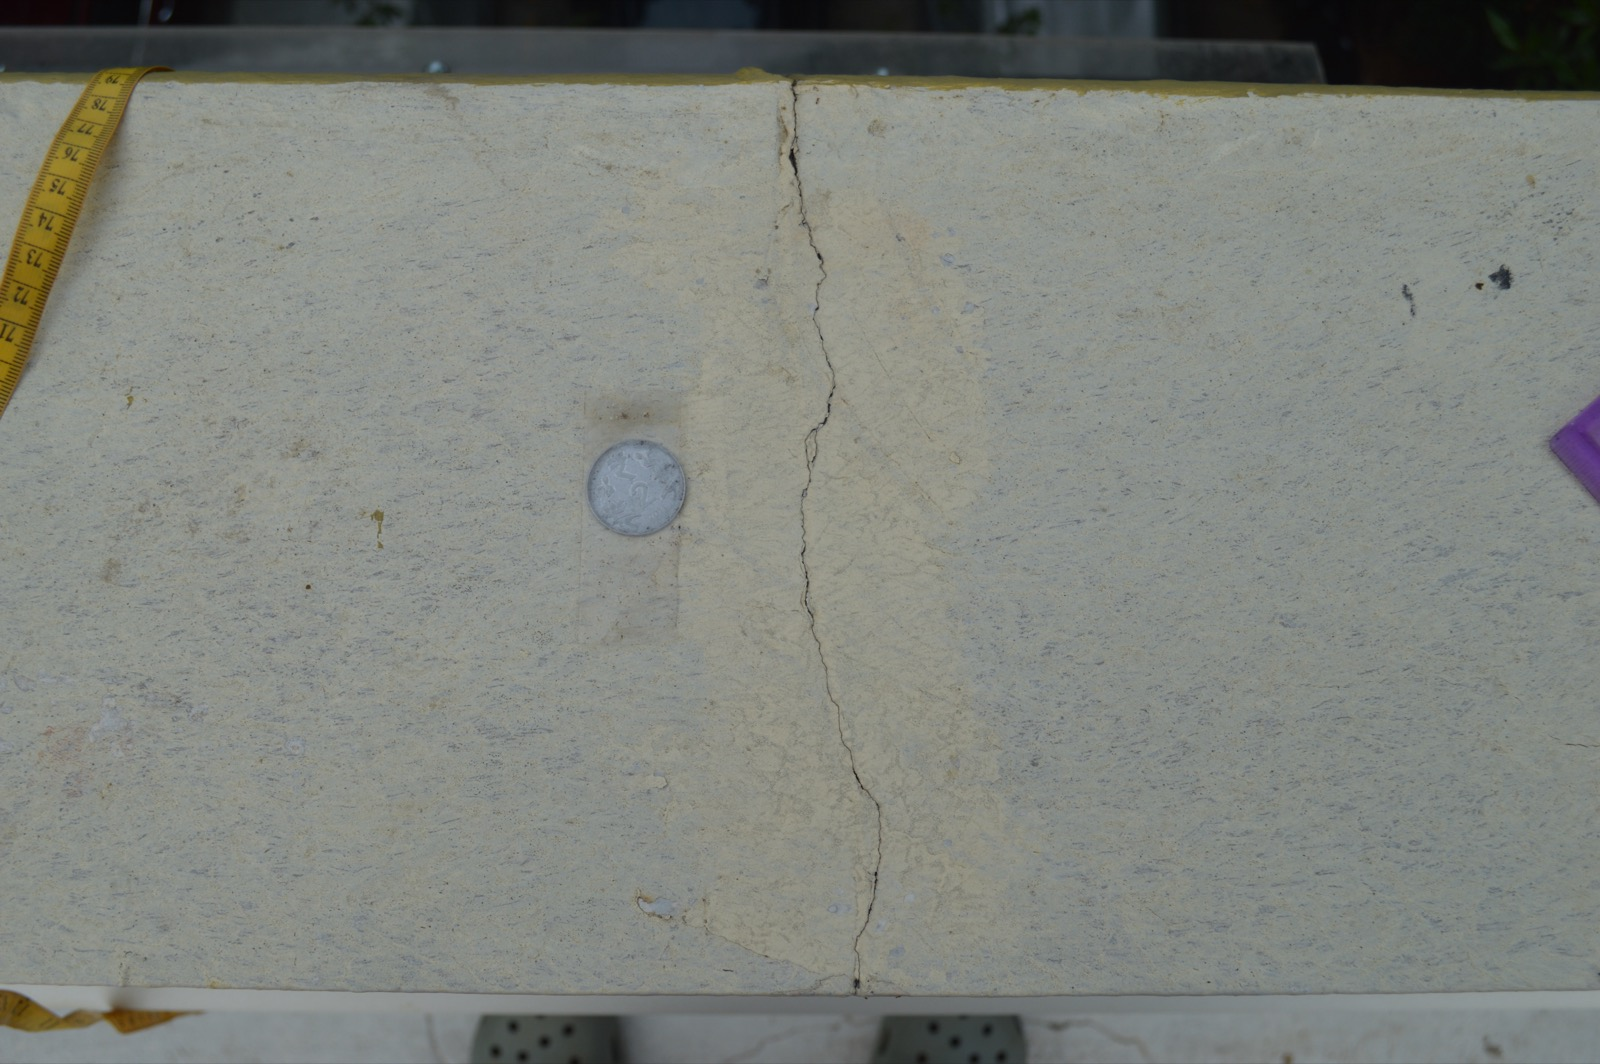
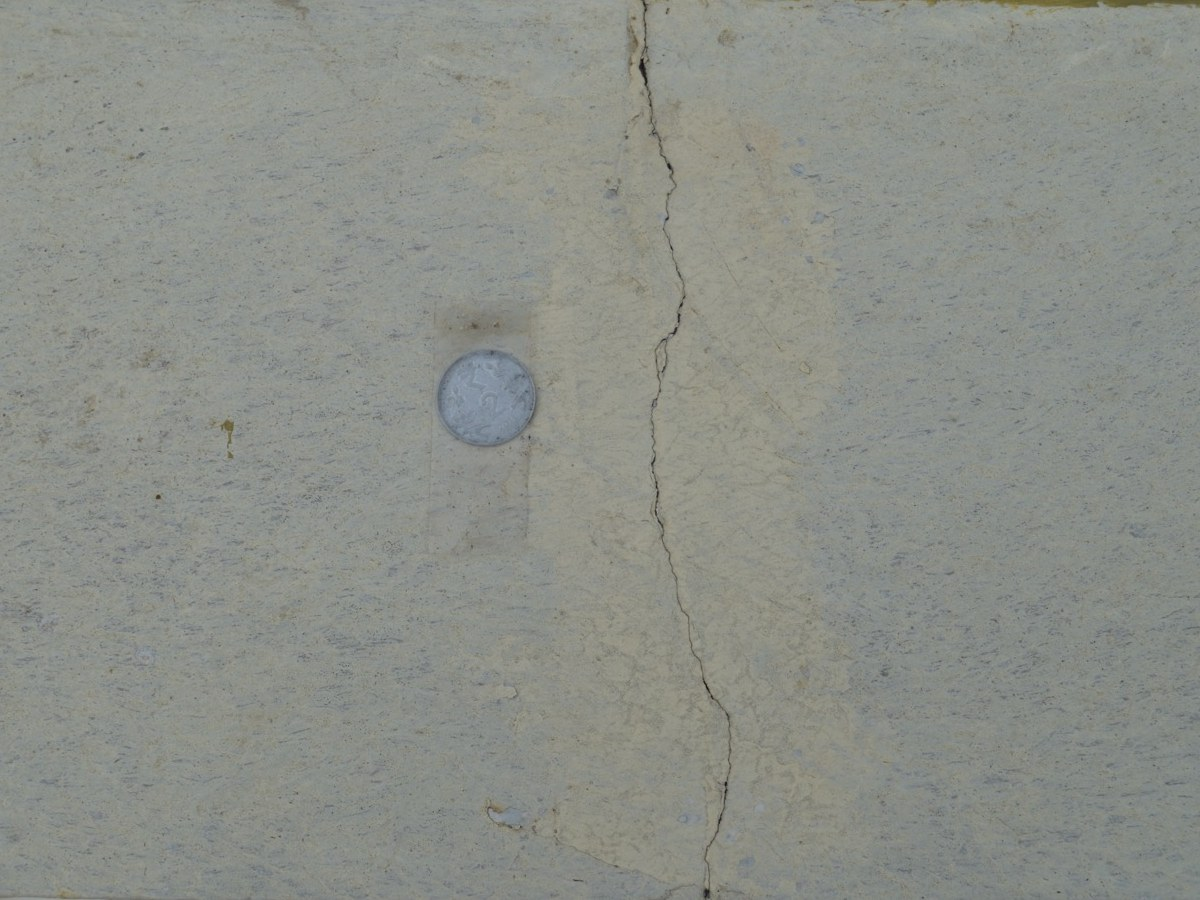
Landing: crop case-study photos; editorial case-study layout
Crop both terrace photos to 1200x900 4:3 on the crack + coin + tape,
cutting the background clutter, hands and feet. Reformat the section:
photos side-by-side with captions, then a two-column body (quote +
measurements + measured-vs-guessed | method + checks + outcome),
full-report PDF viewer full-width below.

diff --git a/react/public/styles.css b/react/public/styles.css
@@ -180,8 +180,9 @@ ul, ol { margin: 0; padding: 0; list-style: none; }
 .case-study { padding-block: 24px 112px; }
 .case-study .status { margin-bottom: 20px; }
 .case-study .sub { margin-top: 16px; max-width: 62ch; }
-.cs-grid { display: grid; grid-template-columns: minmax(0, 5fr) minmax(0, 7fr); gap: 40px; margin-top: 36px; align-items: start; }
-.cs-photos { display: grid; gap: 24px; align-content: start; }
+.cs-photos { display: grid; grid-template-columns: 1fr 1fr; gap: 24px; margin-top: 36px; align-items: start; }
+.cs-grid { display: grid; grid-template-columns: 1fr 1fr; gap: 24px 40px; margin-top: 36px; align-items: start; }
+.cs-grid > div > h3.doc-sec:first-child { margin-top: 0; }
 .cs-photos figure { margin: 0; }
 .cs-photos img { border-radius: 16px; width: 100%; height: auto; background: var(--sand); }
 .cs-compare { display: grid; grid-template-columns: repeat(auto-fit, minmax(150px, 1fr)); gap: 8px; margin-top: 8px; }
@@ -306,6 +307,7 @@ ul, ol { margin: 0; padding: 0; list-style: none; }
   .lede { max-width: 44ch; }
   .faq { grid-template-columns: 1fr; gap: 48px; }
   .cs-grid { grid-template-columns: 1fr; }
+  .cs-photos { grid-template-columns: 1fr; }
   .foot-cols { grid-template-columns: 1fr 1fr; }
 }
 @media (max-width: 860px) {

diff --git a/react/index.html b/react/index.html
@@ -169,22 +169,24 @@
       <p class="status"><span class="dot" aria-hidden="true"></span>Real measurement, not a mockup</p>
       <h2 data-cs="title">Case study</h2>
       <p class="sub" data-cs="sub"></p>
+      <div class="cs-photos" data-cs="photos"></div>
       <div class="cs-grid">
-        <div class="cs-photos" data-cs="photos"></div>
-        <div class="cs-body">
+        <div>
           <blockquote class="doc-said" data-cs="quote"></blockquote>
           <h3 class="doc-sec">Measured</h3>
           <div data-cs="table"></div>
           <div data-cs="compare"></div>
+        </div>
+        <div>
           <h3 class="doc-sec">How it was measured</h3>
           <p class="doc-method" data-cs="method"></p>
           <h3 class="doc-sec">Checks</h3>
           <p class="doc-checks" data-cs="verification"></p>
           <h3 class="doc-sec">Outcome</h3>
           <p data-cs="outcome"></p>
-          <div data-cs="pdfview"></div>
         </div>
       </div>
+      <div data-cs="pdfview"></div>
     </section>
 
     <section id="faq" class="wrap faq">

diff --git a/react/public/app.js b/react/public/app.js
@@ -67,8 +67,8 @@ if (toggle) {
       img.src = String(p.src);
       img.alt = String(p.alt || "");
       img.loading = "lazy";
-      img.width = 800;
-      img.height = 1000;
+      img.width = 1200;
+      img.height = 900;
       fig.appendChild(img);
       if (p.caption) {
         const cap = document.createElement("figcaption");
